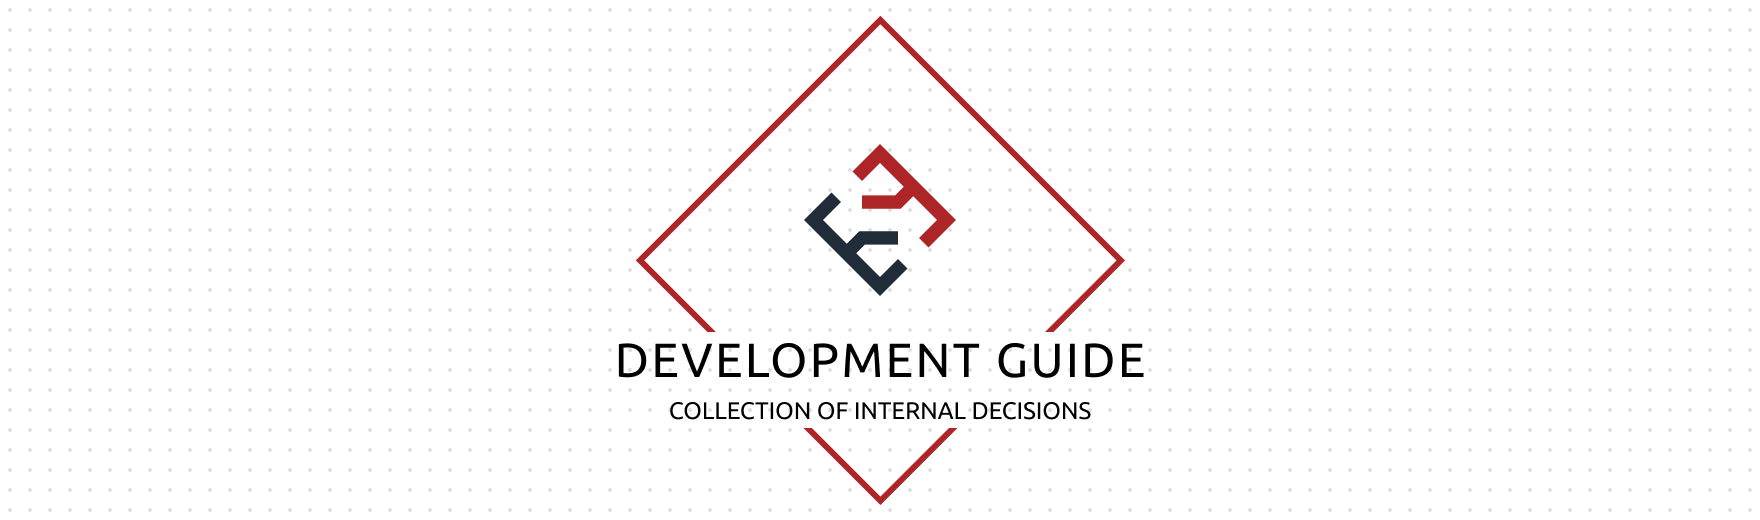
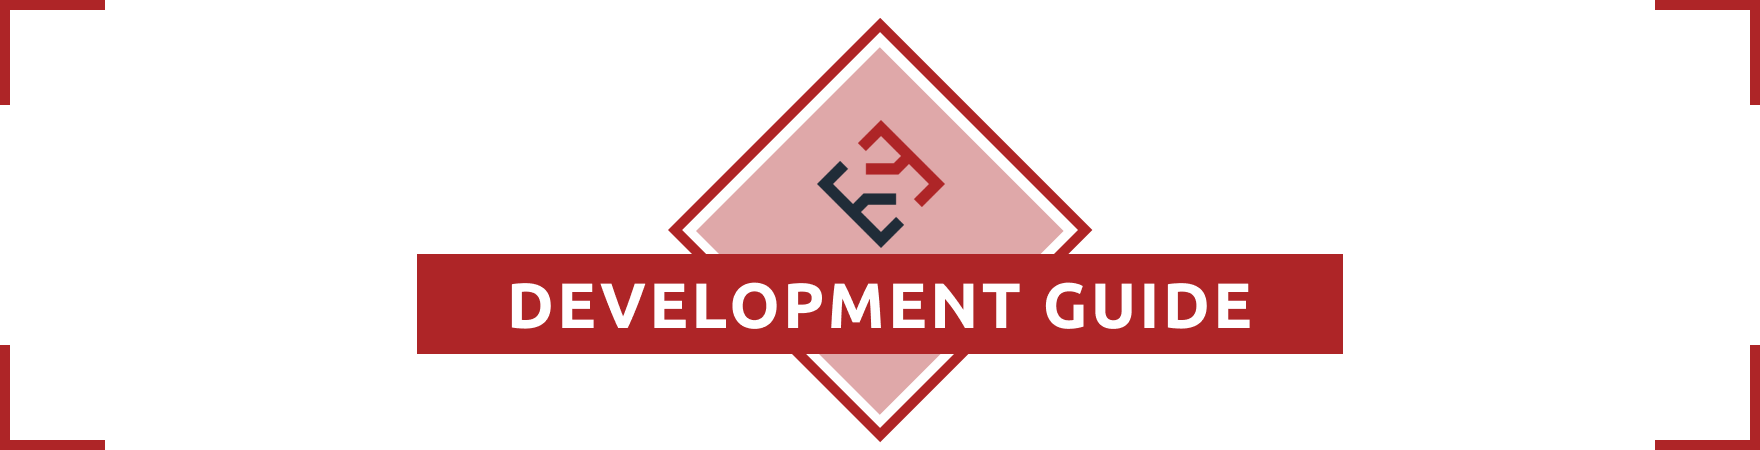
General updates (#10)
* Added rule to protect master branch

* Added rule to prefer squash and merge

* Updated project title asset

diff --git a/src/repository/README.md b/src/repository/README.md
@@ -35,6 +35,16 @@ _A mostly reasonable approach to repositories._
 - `src` - Any projects/files that make up the source code for the solution
 - `tests` - Any projects/files related to testing the source code
 
+### _Protect `master` branch_
+
+Ensure that commits are not made directly to the `master` branch, and undergo a code review process.
+
+### _Prefer squash and merge_
+
+When merging pull requests, prefer to squash and merge; this results in a cleaner commit log and efficient history navigation, whilst also taking away pressure from development branches.
+
+This facilitates freedom to experiment, revert, cherry-pick, commit often with preferred messages, as well as increasing the confidence of non-developers or non-technical team members to contribute.
+
 ### _Avoid committing commented out code_
 
 Version control provides the ability to review past changes, there is no need to pollute the code base and its history.
